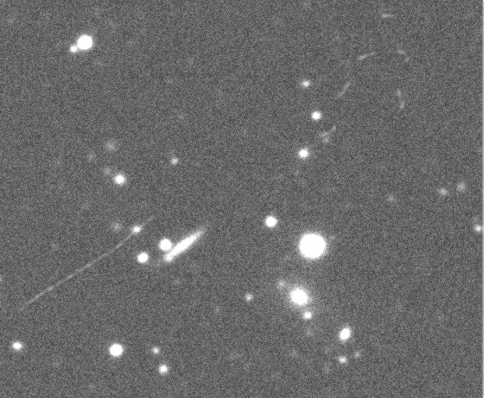
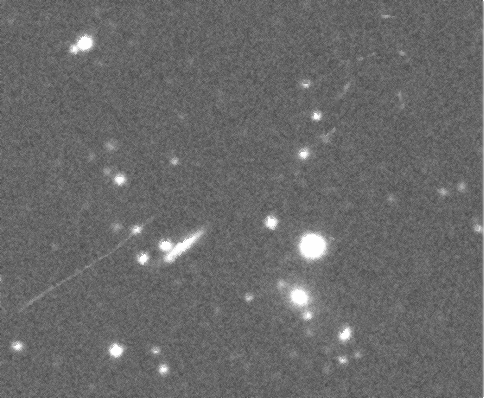
update

diff --git a/main.py b/main.py
@@ -1,13 +1,10 @@
 import cv2
 import numpy as np
-from numpy.core.fromnumeric import shape
 # ----- step 1 -----
-# 將有宇宙射線的圖片轉為負片
+# 拉普拉斯邊緣檢測影像
 # ----- step 2 -----
-# 拉普拉斯邊緣檢測負片
-# ----- step 3 -----
 # 檢測處理拉普拉斯檢測的負片，找出宇宙射線
-# ----- step 4 -----
+# ----- step 3 -----
 # 回到普通圖片，從上往下從左到右把那個區塊磨掉
 
 
@@ -30,6 +27,7 @@ def MarkComsic(img, row, col, val=230):
     '''
     想避免雜訊的話，目前想法是如果周遭有2或3個鄰居的色差小於一定值或周遭的值直接黑掉，就當宇宙射線。 \n
     如果下方的點也有一些特徵 或許可以在markedMap做不同的標記。
+
     '''
     center_value = img[row, col]
     same_color_point_count = 0
@@ -47,7 +45,7 @@ def MarkComsic(img, row, col, val=230):
                 elif img[row+i, col+j] < center_value/2:
                     diff_color_point_count += 1
         # 是宇宙射線
-        if same_color_point_count > 2 or diff_color_point_count > 3:
+        if same_color_point_count > 2:
             return 1
     # 不是宇宙射線
     return 0
@@ -91,7 +89,7 @@ def blurred(img, row, col, kernel=np.array([[1, 1, 1],
 
 
 # 1=靜態kernel 2=動態生成Kernel 3=改閥值重複流程 4=MODE2+MODE3
-MODE = 4
+MODE = 1
 input_path = "./data_set/img_with_cosmic/"
 output_path = "./data_set/img_output/"
 filename = "data1.png"
@@ -106,21 +104,19 @@ if __name__ == '__main__':
         # 標記宇宙射線位置
         markedImgMap = np.zeros(shape=(img_rows, img_cols, 1), dtype=np.uint8)
 
-        # step 1 存負片
-        nag_img = NegativeFilm(img)
-
-        # step 2 拉普拉斯邊緣檢測
-        la_img = cv2.Laplacian(nag_img, cv2.CV_16S, ksize=3)
+        # step 1 拉普拉斯邊緣檢測
+        la_img = cv2.Laplacian(img, cv2.CV_16S, ksize=3)
         la_img = cv2.convertScaleAbs(la_img)
 
-        # step 3 檢測處理拉普拉斯檢測的負片，找出宇宙射線
-        # 開3x3檢測鏡
+        # step 2 檢測處理拉普拉斯檢測的負片，找出宇宙射線
+        # 開3x3遮罩
         # 判斷中間的灰階值是否幾乎等於白色，且與周遭的值差距很大(like val>210 or something)
         # 是的話就標記他的座標
+        markedImgMap = np.zeros(shape=(img_rows, img_cols, 1), dtype=np.uint8)
         for i in range(1, img_rows-1):
             for j in range(1, img_cols-1):
-                markedImgMap[i, j] = MarkComsic(la_img, i, j, val=230)
-        # step 4 回到普通圖片，從上往下從左到右把那個區塊磨掉
+                markedImgMap[i, j] = MarkComsic(la_img, i, j, val=150)
+        # step 3 回到普通圖片，從上往下從左到右把那個區塊磨掉
         for i in range(1, img_rows-1):
             for j in range(1, img_cols-1):
                 if markedImgMap[i, j] == 1:
@@ -137,7 +133,6 @@ if __name__ == '__main__':
                     else:
                         img[i, j] = blurred(img, i, j)
         # ----- 成效不佳 -----
-        # 用[[1,1,1],[1,0,0],[0,0,0]]的過濾器來處理得到blur1, 對marked2再處理一次得到blur2, blur1比較好
         #             # 之後再對2的部分做一是磨平
         #             if markedImgMap[i-1, j] != 1:
         #                 markedImgMap[i-1, j] = 2
@@ -153,11 +148,10 @@ if __name__ == '__main__':
         #         if markedImgMap[i, j] == 2:
         #             origin_image[i, j] = blurred(origin_image, i, j)
         # --------------------
-        # 如果對blur1 當作原圖 再從step1跑一次流程，可以得到blur1_round2
         SaveImg("./data_set/img_output/"+"newImg.png", img)
     else:
         # 判斷是否為宇宙射線的閥值
-        mask_judg = 230
+        mask_judg = 180
         for n in range(2):
             # input灰階圖片
             if n == 0:
@@ -183,7 +177,7 @@ if __name__ == '__main__':
                 for j in range(1, img_cols-1):
                     markedImgMap[i, j] = MarkComsic(
                         la_img, i, j, val=mask_judg)
-            mask_judg -= 10
+            mask_judg -= 40
             # step 4 回到普通圖片，從上往下從左到右把那個區塊磨掉
             for i in range(1, img_rows-1):
                 for j in range(1, img_cols-1):
@@ -200,20 +194,17 @@ if __name__ == '__main__':
                             markedImgMap[i, j] = 0
                         else:
                             img[i, j] = blurred(img, i, j)
-        #     SaveImg("./data_set/temp.png", img)
+            SaveImg("./data_set/temp.png", img)
 
-        # SaveImg("./data_set/img_output/"+"newImg.png", img)
-    img = cv2.imread("./data_set/negative_img/"+filename, 0)
-    img = laplace(img)
-    SaveImg("./"+"newImg.png", img)
+        SaveImg("./data_set/img_output/"+"newImg.png", img)
 
-    img = cv2.imread(input_path+filename, 0)
-    sobelX = cv2.Sobel(img, cv2.CV_64F, 1, 0)
-    sobelY = cv2.Sobel(img, cv2.CV_64F, 0, 1)
-    sobelX = np.uint8(np.absolute(sobelX))
-    sobelY = np.uint8(np.absolute(sobelY))
-    sobelCombined = cv2.bitwise_or(sobelX, sobelY)
-    
-    SaveImg("./data_set/img_edge/"+"sobelx_data1.png", sobelX)
-    SaveImg("./data_set/img_edge/"+"sobely_data1.png", sobelY)
-    SaveImg("./data_set/img_edge/"+"sobelxy_data1.png", sobelCombined)
+    # Sobel算子測試
+    # img = cv2.imread(input_path+filename, 0)
+    # sobelX = cv2.Sobel(img, cv2.CV_64F, 1, 0)
+    # sobelY = cv2.Sobel(img, cv2.CV_64F, 0, 1)
+    # sobelX = np.uint8(np.absolute(sobelX))
+    # sobelY = np.uint8(np.absolute(sobelY))
+    # sobelCombined = cv2.bitwise_or(sobelX, sobelY)
+    # SaveImg("./data_set/img_edge/"+"sobelx_data1.png", sobelX)
+    # SaveImg("./data_set/img_edge/"+"sobely_data1.png", sobelY)
+    # SaveImg("./data_set/img_edge/"+"sobelxy_data1.png", sobelCombined)
